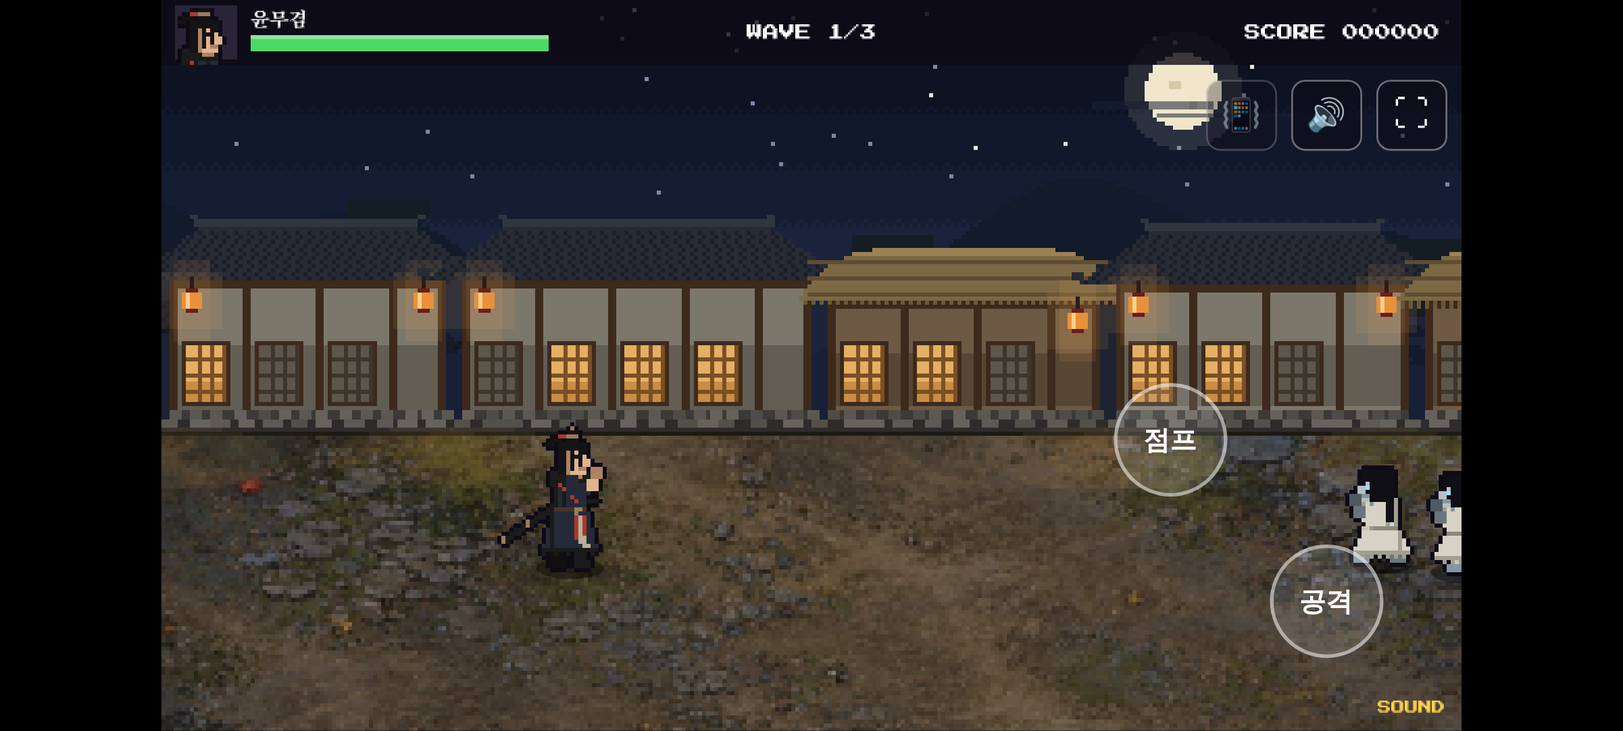
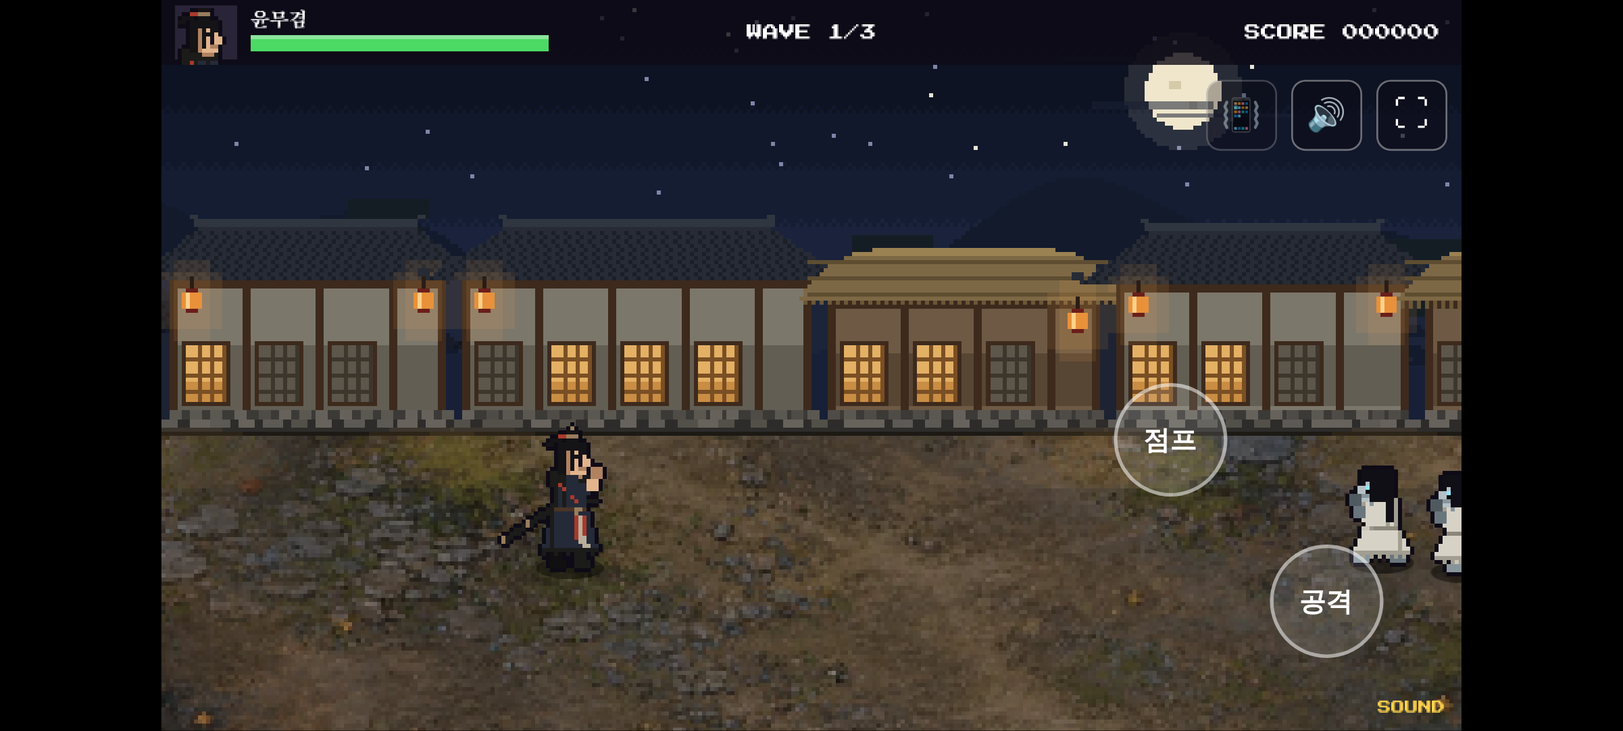
조선 P0: 오너 결정 반영 — 바닥 이음매 제거, 도깨비 위압감(117px·넓은 어깨), 이펙트 높이를 그림 키에, CLAUDE.md 조선 기준 갱신 (director 검수 전)
Claude-Session: https://claude.ai/code/session_0145PX3tFn2de4wdGysM1gpi

diff --git a/beltscroll/art.js b/beltscroll/art.js
@@ -88,9 +88,9 @@ const ART = (() => {
            pants: '#c9c5b9', pantsD: '#99958a', boots: '#87949b', bootsD: '#6a767d', accent: '#8fe6ff',
            belt: '#8c877b', eye: '#0a0a0e', fist: '#6a767d', fistD: '#4f5a60' },
     },
-    dokkaebi: {  // 도깨비 (brute 복제): 붉은 몸, 뿔, 헝클어진 머리, 새끼줄 띠와 방울
+    dokkaebi: {  // 도깨비 (brute 복제): 붉은 몸, 큰 뿔, 헝클어진 머리, 새끼줄 띠와 방울. 윤무겸보다 위압적으로 — 어깨·몸통·팔을 넓고 두껍게 (오너 결정)
       name: '도깨비', style: 'dokkaebi',
-      head: [8, 7], torso: [13, 11], legLen: 10, legW: 4, armW: 4, upper: 5, fore: 5,
+      head: [9, 8], torso: [16, 13], legLen: 11, legW: 5, armW: 5, upper: 6, fore: 6,
       c: { skin: '#b5463b', skinD: '#842e27', shine: '#d66a5c', hair: '#1a1414', top: '#8c7a52', topD: '#6a5a3a',
            pants: '#3b3226', pantsD: '#2a231b', boots: '#c9b994', bootsD: '#9c8e6c', accent: '#d8b04a',
            belt: '#a08a5a', eye: '#f2d14a', fist: '#b5463b', fistD: '#842e27', horn: '#e6dcc2' },
@@ -212,10 +212,11 @@ const ART = (() => {
         R(tx - 13, hipY + bob + 6, 1, 2, k.gold); R(tx - 7, hipY + bob + 2, 1, 2, k.gold);
         if (!armed) { R(tx + tw - 1, hipY + bob - 3, 4, 1, k.sheath); R(tx + tw - 1, hipY + bob - 4, 1, 3, k.gold); }
       }
-      if (def.style === 'dokkaebi') {   // 맨몸 + 어깨에 걸친 새끼줄 천
+      if (def.style === 'dokkaebi') {   // 맨몸 + 솟은 어깨 근육 + 어깨에 걸친 새끼줄 천
         R(tx, tTop, tw, th, k.skin);
-        R(tx, tTop, 1, th, k.skinD);
-        R(tx + 3, tTop + 2, 2, 2, k.shine);
+        R(tx - 1, tTop + 1, tw + 2, 4, k.skin); R(tx + 1, tTop - 1, tw - 2, 1, k.skin);   // 어깨를 넓고 둥글게
+        R(tx, tTop, 1, th, k.skinD); R(tx - 1, tTop + 1, 1, 4, k.skinD);
+        R(tx + 3, tTop + 2, 3, 2, k.shine); R(tx + tw - 5, tTop + 5, 3, 1, k.skinD); R(tx + tw - 6, tTop + 8, 4, 1, k.skinD);   // 가슴·배 근육 그림자
         for (let i = 0; i < th - 1; i++) R(tx + 2 + Math.round(i * (tw - 5) / th), tTop + i, 3, 1, i % 3 ? k.top : k.topD);
       } else if (def.style === 'brute') {   // 민소매: 어깨가 드러남
         R(tx, tTop, tw, th, k.skin);
@@ -278,9 +279,9 @@ const ART = (() => {
         R(hx + 3, hy + 1, 2, hh - 1, k.hair);
         R(hx + hw - 1, hy + 1, 1, 2, k.hair);
         if (!hurt) R(hx + hw - 2, hy + 3, 1, 1, k.accent);
-      } else if (def.style === 'dokkaebi') {  // 뿔 2개 + 헝클어진 머리 + 수염 + 송곳니
-        R(hx + 1, hy - 3, 1, 3, k.horn); R(hx + 2, hy - 4, 1, 1, k.horn);
-        R(hx + hw - 3, hy - 3, 1, 3, k.horn); R(hx + hw - 2, hy - 4, 1, 1, k.horn);
+      } else if (def.style === 'dokkaebi') {  // 굵게 휜 큰 뿔 2개 + 헝클어진 머리 + 수염 + 송곳니
+        R(hx, hy - 3, 2, 3, k.horn); R(hx - 1, hy - 5, 2, 2, k.horn); R(hx - 1, hy - 6, 1, 1, k.horn);
+        R(hx + hw - 3, hy - 3, 2, 3, k.horn); R(hx + hw - 2, hy - 5, 2, 2, k.horn); R(hx + hw - 1, hy - 6, 1, 1, k.horn);
         R(hx - 1, hy - 1, hw + 1, 2, k.hair); R(hx - 1, hy, 3, 6, k.hair);
         R(hx + hw - 4, hy + hh - 3, 5, 3, k.hair);
         if (!hurt) R(hx + hw - 2, hy + 3, 1, 1, k.eye);
@@ -365,7 +366,10 @@ const ART = (() => {
     const { hw, hh, hx, hy } = geometry(def);
     const [face, fg] = canvas(hw + 8, hh + 7);
     fg.drawImage(bust, hx - 4, hy - 4, hw + 8, hh + 7, 0, 0, hw + 8, hh + 7);
-    return { frames, flash, face, sheet: {} };
+    // 그림 키(칸, 외곽선 포함): 서 있는 그림에서 맨 위 불투명 줄 ~ 발바닥. 맞을 때 불꽃·체력바 높이에 쓴다 (판정과 무관)
+    const d = frames.idle0.getContext('2d').getImageData(0, 0, FW, FH).data;
+    let top = 0; while (top < FH && ![...Array(FW).keys()].some(x => d[(top * FW + x) * 4 + 3])) top++;
+    return { frames, flash, face, sheet: {}, height: FOOT + 1 - top };
   }
 
   // ----- 타격 이펙트 (3장) -----
@@ -717,16 +721,12 @@ const ART = (() => {
     jGlow(g, R, lamps);
     return c;
   }
-  // 그림 질감(assets/joseon/floor_dirt.png, 원본 assets/reference/06 에서 잘라 1/3 로 줄인 것)으로 바닥을 깐다. 좌우를 번갈아 뒤집어 잇는다 (이음매가 좌우 대칭 무늬로 보임 — 오너 판단 대기, docs/joseon-p0.md)
+  // 그림 질감(assets/joseon/floor_dirt.png)으로 바닥을 깐다. 질감은 원본 assets/reference/06 의 흙길 띠 3개(높이 330·560·760px)를
+  // 150px 씩 겹쳐 서서히 섞고 끝을 처음과 이어 붙인 고리라, 뒤집지 않고 그대로 반복해도 이음매가 없다 (가로 801칸)
   function texturedFloor(img, wu, hu, lamps) {
     const [c, g] = canvas(wu, hu); const R = painter(g);
     R(0, 0, wu, hu, '#3f3428');
-    for (let x = 0, k = 0; x < wu; x += img.width, k++) {
-      g.save();
-      if (k % 2) { g.translate(x + img.width, 0); g.scale(-1, 1); g.drawImage(img, 0, 0, img.width, hu); }
-      else g.drawImage(img, x, 0, img.width, hu);
-      g.restore();
-    }
+    for (let x = 0; x < wu; x += img.width) g.drawImage(img, x, 0, img.width, hu);
     jFloorEdge(R, wu);
     jGlow(g, R, lamps);
     return c;
@@ -777,6 +777,7 @@ const ART = (() => {
       set.sheet[name] = { img: c, flash: silhouette(c, '#ffffff') };
     }
     set.spec = spec;
+    if (spec.height) set.sheetHeight = spec.height;
     if (spec.face && set.sheet.idle0) {
       const [x, y, w, h] = spec.face, [c, g] = canvas(w, h);
       g.drawImage(set.sheet.idle0.img, x, y, w, h, 0, 0, w, h);
@@ -789,10 +790,14 @@ const ART = (() => {
     if (sh) return { img: flash ? sh.flash : sh.img, scale: set.spec.scale, ax: set.spec.footX, ay: set.spec.footY };
     return { img: (flash ? set.flash : set.frames)[name], scale: S, ax: CX, ay: FOOT };
   }
+  function heightOf(id) {   // 화면 키 px (시트에 height 가 있으면 그 값)
+    const set = characters[id];
+    return set.sheetHeight || set.height * S;
+  }
   function faceOf(id) {   // HUD 얼굴: 시트 얼굴은 높이 42px 로 맞춘다
     const set = characters[id];
     return set.sheetFace ? { img: set.sheetFace, scale: 42 / set.sheetFace.height } : { img: set.face, scale: S };
   }
 
-  return { S, CX, FOOT, CHARACTERS, POSES, characters, sparks: buildSparks(), buildStage, texturedFloor, useSpriteSheet, frameOf, faceOf, BARE, text };
+  return { S, CX, FOOT, CHARACTERS, POSES, characters, sparks: buildSparks(), buildStage, texturedFloor, useSpriteSheet, frameOf, faceOf, heightOf, BARE, text };
 })();

diff --git a/beltscroll/index.html b/beltscroll/index.html
@@ -109,6 +109,8 @@ for (const [id, spec] of Object.entries(BB_DATA.sprites || {})) {
   img.src = spec.src;
 }
 const FONT = '"Press Start 2P", monospace';
+// 맞을 때 불꽃·파티클·적 체력바 높이 (시각 전용, 판정과 무관). 조선 그림은 그림 키에 맞추고, 원래 그림은 예전처럼 h
+const fxH = f => THEME === 'joseon' ? ART.heightOf(f === player ? PLAYER_ART : f.art) : f.h;
 const KFONT = '"Song Myung", "Apple SD Gothic Neo", "Noto Sans KR", serif';   // 한글 제목·이름
 document.fonts && document.fonts.load('16px "Press Start 2P"').catch(() => {});
 
@@ -460,8 +462,8 @@ function damageEnemy(e, dmg, knockdown, dir, attacker) {
   e.hp -= dmg;
   e.flash = feel.flash * (lethal ? KILL_FLASH_MULT : 1);
   e.attack = 0;
-  burst(e.x, e.y - e.h / 2 - e.z, '#ffd36b');
-  sparks.push({ x: e.x - dir * 10, y: e.y, h: e.z + e.h * 0.65, t: 0 });
+  burst(e.x, e.y - fxH(e) / 2 - e.z, '#ffd36b');
+  sparks.push({ x: e.x - dir * 10, y: e.y, h: e.z + fxH(e) * 0.65, t: 0 });
   impact(feel, e, attacker, dir);
   if (otg) {
     // 다운 시간을 늘리지 않는다. 체력이 0이 되면 다운이 끝날 때 사라진다
@@ -486,8 +488,8 @@ function damagePlayer(dmg, dir, knockdown, attacker) {
   player.jumpKick = null; player.landLag = 0; player.jumped = false; player.afterGrab = null;
   if (player.grab) releaseGrab(player);   // 맞으면 잡은 적을 놓친다
   player.grabPush = 0; player.grabTarget = null;
-  burst(player.x, player.y - player.h / 2 - player.z, '#ff6b6b');
-  sparks.push({ x: player.x - dir * 10, y: player.y, h: player.z + player.h * 0.65, t: 0 });
+  burst(player.x, player.y - fxH(player) / 2 - player.z, '#ff6b6b');
+  sparks.push({ x: player.x - dir * 10, y: player.y, h: player.z + fxH(player) * 0.65, t: 0 });
   const feel = feelFor('normal');
   player.flash = feel.flash;
   impact(feel, player, attacker, dir);
@@ -935,7 +937,7 @@ function drawFighter(f, isPlayer) {
   ctx.restore();
 
   // 적 체력바
-  const top = baseY - f.h - f.z;
+  const top = baseY - fxH(f) - f.z;
   if (!isPlayer && f.hp < f.maxHp && f.hp > 0) {
     ctx.fillStyle = '#0e0b16'; ctx.fillRect(sx - 21, top - 16, 42, 7);
     ctx.fillStyle = '#ff5c5c'; ctx.fillRect(sx - 20, top - 15, 40 * f.hp / f.maxHp, 5);

diff --git a/beltscroll/docs/joseon-p0.md b/beltscroll/docs/joseon-p0.md
@@ -12,6 +12,8 @@
 ## 2. 에셋 검수와 분류
 7장 모두 투명 배경이 없는 RGB 시트(1536×1024, 06만 1254×1254)다. 한 그림에 여러 컷이 붙어 있고, 동작별 프레임이 없다.
 **오너 지시: 7장은 공식 아트 스타일 기준.** 원본을 `assets/reference/` 에 그대로 보존 (게임은 직접 읽지 않음).
+- 판본 2가지 (상세 `assets/reference/README.md`): 처음 받은 **경량 WebP 7장**(손실 압축, 투명도 없음)과 오너가 나중에 올린 **PNG 원본 7장**(`assets/reference/png-originals/`, 무손실, 복구 안내문 포함). 해상도는 같다(1536×1024, 06 만 1254×1254) — "고해상도"가 아니라 무손실·투명도 보존 원본이다.
+- PNG 원본 중 **07 아틀라스만 진짜 투명 배경**(픽셀 46% 완전 투명): 인물 5종·도깨비·백호·멧돼지·용·초가가 오려져 있다. 단 한 장씩의 정지 컷이라 동작 프레임은 아니다 (이번 P0 에서는 쓰지 않음).
 
 | 파일 | 내용 | 분류 | 이번에 쓴 곳 |
 |---|---|---|---|
@@ -34,8 +36,10 @@
 | 윤무겸 무기 (벽사검) | 평소엔 허리 뒤로 비스듬히 늘어진 칼집에 꽂혀 있고, 공격 준비·1타·2타·3타·내려찍기 그림에서만 뽑아 든다. 1타 내려베기(가슴 앞에서 앞 아래로), 2타 올려베기(앞 위로), 준비는 어깨 뒤로 길게 젖힘, 3타·내려찍기는 뒤로 길게 늘어뜨림. 칼날 대각 길이 54px(키의 약 절반). 잡기·무릎·던지기는 맨손 그림(칼이 붙든 적을 찌르는 것처럼 보이지 않게) |
 | 윤무겸 색 | 03 "주요 색상" 견본을 직접 뽑음: 먹색 #1b1b1a, 남청 #292c30(화면에서 조금 푸르게 #252a38), 회갈 #706255, 주홍 #913324(화면용으로 조금 밝게 #a83a2b), 금속 #987c5c, 누런 백색 #e7dbc7 |
 | 적 thug → 원귀 | `wongwi`: 잡졸 몸·포즈 그대로, 흰 소복 자락(해진 끝단), 얼굴 가린 긴 머리, 푸른 눈빛, 어두운 손(옷과 구분, director 지적) |
-| 적 brute → 도깨비 | `dokkaebi`: 덩치 몸·포즈 그대로, 붉은 몸·뿔·헝클어진 머리·송곳니·새끼줄 천·방울 (07 참고) |
+| 적 brute → 도깨비 | `dokkaebi`: 붉은 몸·굵게 휜 큰 뿔·헝클어진 머리·송곳니·새끼줄 천·방울 (07 참고). 오너 결정으로 윤무겸보다 위압적이게: 머리 9×8·몸통 16×13(넓게 솟은 어깨, 가슴·배 근육 그림자)·다리 11·팔 두께 5·팔 길이 6+6. 화면 키 117px(윤무겸 111px), 폭도 크게 넓음. 40칸 프레임 위 끝까지 써서 **키는 더 못 키움**(더 키우려면 프레임 확장 = 구조 변경). 판정(w 46·h 84, 공격 사거리 52)은 그대로. 펀치 주먹 끝이 몸 중심 앞 약 51px 로 실제 공격 사거리 52px 와 거의 같아짐(예전 42px) |
 | 배경 → 조선 마을 밤 | 먹빛 밤하늘과 먹구름 걸린 달, 산 능선·소나무·먼 탑, 뒷마을 기와지붕, 기와집·초가집(창호문 불빛)·돌담·대나무·장독·처마 등불, 바닥 흙길(06 질감) + 디딤돌 줄 + 등불 빛 |
+| 바닥 이음매 (오너 결정) | 06 의 흙길 띠 3개(높이 330·560·760px)를 150px 씩 겹쳐 서서히 섞고 끝을 처음과 이어 붙인 고리(가로 2403px → 801칸)로 다시 만듦. 뒤집기 없이 그대로 반복 → 좌우 대칭 무늬 없음 |
+| 맞을 때 불꽃·파티클·적 체력바 높이 | 판정 높이 `h`(주인공 76) 대신 그림 키(윤무겸 111·원귀 78·도깨비 117px)에 맞춤. 불꽃은 키의 0.65(가슴), 파티클은 0.5, 체력바는 머리 위. 원래 그림(THEME street)은 예전처럼 h. 판정·난수 사용 횟수 그대로 |
 | 글자 | 타이틀 "조선 퇴마전"(Song Myung 글꼴), HUD 이름 "윤무겸", 브라우저 탭 제목 |
 | **정식 스프라이트 교체 구조** | `data/sprites.js` 에 시트 한 줄을 적으면 그 캐릭터의 그 동작만 시트 그림으로 바뀐다(규격 `docs/sprite-spec.md`). 시트에 없는 동작·파일 없음은 코드 그림. 시트 칸 크기·발 기준점·배율을 따로 가져 코드 그림(40칸·3배)과 섞여도 발 위치가 맞는다. HUD 얼굴도 시트에서 잘라 쓸 수 있다 |
 | 폴백 | 바닥 그림을 못 불러오면 코드로 그린 흙길. 스프라이트 시트를 못 불러오면 코드 그림 |
@@ -50,6 +54,7 @@
 | 새 상태 | 설정·초기화 | 겹침 |
 |---|---|---|
 | `THEME`·`PLAYER_ART` (상수) | 페이지 열 때 1번 | 판 갱신·난수와 무관. 그림 선택만 |
+| 그림 키 `height`·`fxH` | 그림 만들 때 1번 잼(서 있는 그림의 맨 위 불투명 줄~발바닥). 시트는 sprites.js 의 height | 불꽃·파티클 위치와 체력바에만. 판정·이동·난수 호출 횟수와 무관 (determ 기록 같음). 점프 중(z)은 예전처럼 더함 |
 | 바닥 질감 교체 (`BG.floor`) | 그림을 다 불러온 순간 1번 바꿔 끼움. 실패하면 안 바꿈 | 게임 중 언제 와도 다음 프레임부터 새 바닥, 크기 같음. 재시작·게임오버·전체화면·가로세로·터치와 무관. 판 난수 안 씀 |
 | 스프라이트 시트 (`characters[id].sheet`) | 시트를 다 불러온 순간 1번 칸을 잘라 둠. 실패하면 빈 채로 | 그리기에서만 읽음. 판정·frameName 과 무관(측정: 시트 있음·없음·파일 없음 세 경우 판 기록 같음). 맞음 번쩍임·무적 깜빡임·좌우 뒤집기는 같은 경로라 시트 그림에도 적용 |
 | 잡기 중 맨손 그림 | 그리기 직전 이름만 바꿈 (hold·knee·throwPrep·throw) | 잡기(grab)·잡기 뒤(afterGrab) 상태에서만. frameName 결과·측정 출력은 그대로 |
@@ -63,14 +68,17 @@
 - 전후 사진: `docs/joseon-p0/before-*.png`, `after-*.png` (PC 타이틀·웨이브1·웨이브3, 휴대폰 가로 웨이브1).
 - director 2차(http 로 띄워 픽셀 실측): 잡기·무릎·던지기 5장면 칼 픽셀 0, 준비·1·2타에서 칼 보임. 가짜 시트+코드 칸 섞어도 발 높이 같음, 좌우 뒤집기·번쩍임·무적 깜빡임 적용. 술·가슴끈 칸 보임.
 - 그림 크기 실측(불투명 칸, 외곽선 포함): 윤무겸 111px, 원래 주인공·잡졸·덩치 87px, 원귀 78px, 도깨비 99px. 칼끝 몸 중심 앞 39px, 칼날 가로 10칸·세로 15칸(대각 54px).
+- 3차(오너 4가지 결정 반영 뒤): 같은 31개 + sprites 다시 실행 → 28개 기준선과 같음, touch·test·typo 는 위와 같은 이유로 다름, sprites 정상. 그림 키 실측: 윤무겸 111·원귀 78·도깨비 117px. 도깨비를 칠 때 불꽃 높이 76px(키의 0.65, 가슴).
+- 전후 비교 사진: `docs/joseon-p0/compare-pc.png`, `compare-mobile.png` (타이틀·웨이브1·웨이브3, 왼쪽 작업 전·오른쪽 작업 후).
 - 사람 손으로 하는 확인(키보드·터치 실제 조작감)은 하지 않음 → 오너 확인 필요.
 
 ## 6. 남은 문제
 - 지금 윤무겸은 설정화를 기준으로 한 **임시 전투 스프라이트**(약 32칸 키 픽셀 그림)다. 설정화의 얼굴 표정·옷 무늬 수준은 정식 스프라이트가 필요하다. 필요 칸: `docs/sprite-spec.md` 의 14개(+ 잡기용 4개는 없으면 punch·stomp·windup·punch2 칸을 씀).
-- **칼 길이 (오너 판단):** (가) 지금처럼 대각선 54px, 사거리 그대로 — 추천 (나) 설정화처럼 더 긴 칼(키의 70%) + 사거리 48→64 같은 전투 조정(제자리 연타·적 멈춤 거리까지 다시 맞추는 큰 작업) (다) 처음의 짧은 수평 찌르기.
-- 키: 주인공(111px)이 도깨비(99px)보다 크다. 설정화 비율을 따른 결과인데, 덩치 적이 더 커 보여야 하면 도깨비 그림을 키울 수 있다(판정은 그대로).
-- 판정 크기 `h`(주인공 76)는 판정에 안 쓰이고 연출에만 쓰인다(맞을 때 불꽃·파티클 높이, 적 체력바). 그래서 윤무겸이 맞을 때 불꽃이 허리 높이(발 위 49px)에 뜬다. 정식 스프라이트 키가 정해지면 맞출 것.
-- **바닥 이음매 (오너 판단 대기):** 06 질감을 좌우로 번갈아 뒤집어 이어서, 이음매 3곳(951px 마다)에 좌우 대칭 바위 무늬가 보인다. (가) 추천: 06 에서 다른 높이의 띠를 하나 더 잘라 두 장을 번갈아(뒤집기 없음) (나) 그대로.
+- 칼 길이: 오너 결정(2026-10-27) 대각선 54px 유지, 공격 범위·타격감 그대로.
+- 도깨비 키: 40칸 프레임 한계(117px)까지 키움. 더 위압적으로 하려면 프레임 확장(구조 변경, 오너 확인 필요) 또는 정식 스프라이트.
+- 판정 크기 `h` 는 그대로다. 그래서 H 키(판정 표시)로 보는 몸 상자와 그림 키는 다르다(판정은 x·깊이·높이 z 로만 하므로 플레이 영향 없음).
+- 바닥: 이음매는 없앴지만 섞은 구간(150px)은 두 그림이 반투명으로 겹쳐 살짝 흐리다. 고리 길이 801칸이라 스테이지(1204칸)에서 한 번 반복된다.
+- **GitHub 의 Vercel 실패 표시 (게임 코드와 무관):** PR #30 의 Vercel 상태 3개(joseon-exorcist·dropbid·backpackr)가 모두 "Deployment rate limited — retry in 24 hours" 로 실패. 이 PR 과 상관없는 dropbid 프로젝트도 같은 문구라 **빌드 횟수 한도** 때문이다. 이 게임은 빌드가 필요 없는 정적 파일이고, GitHub Actions 검사는 0개. 한도가 풀리면 다시 배포하면 된다.
 - 원귀·도깨비 선택: 설정화의 귀화는 사람 모양이 아니라 지금 포즈를 못 써서 원귀·도깨비를 골랐다.
 - 바닥 질감은 위에서 본 그림이라 원근이 조금 다르다(디딤돌 줄이 경계를 가려 사진상 크지 않음). 고해상도 원본 PNG 는 받지 못했다.
 - 타이틀 글꼴은 구글 글꼴에서 받는다(오프라인이면 기본 글꼴, 기존 Press Start 2P 와 같은 의존).

diff --git a/beltscroll/CLAUDE.md b/beltscroll/CLAUDE.md
@@ -1,10 +1,14 @@
-# Belt Brawl — 작업 규칙
+# 조선 퇴마전 (작업명 Belt Brawl) — 작업 규칙
 
 이 파일은 매 작업 시작 시 반드시 읽고 따른다. `docs/progress.md`가 있으면 함께 읽고, 거기 적힌 현재 단계부터 이어간다.
 
 ## 1. 프로젝트 한 줄 정의
-브라우저에서 도는 2D 벨트스크롤 액션 게임 "Belt Brawl". 1인 개발(오너는 비개발자), 클로드코드가 구현을 맡는다.
-이미 플레이 가능한 버전이 있다 (웨이브 3개, 적 2종 thug·brute, 3연타, 점프, HUD, 터치 조작, art.js 픽셀 아트).
+브라우저에서 도는 2D 벨트스크롤 액션 게임 "조선 퇴마전" (작업명 Belt Brawl). 1인 개발(오너는 비개발자), 클로드코드가 구현을 맡는다.
+조선 마을의 밤, 벽사청 검객 윤무겸이 귀물(원귀·도깨비)과 싸운다. 웨이브 3개, 3연타(벽사검), 점프, 잡아 던지기, HUD, 터치 조작 (2026-10-27 오너 지시로 세계관 전환, 상세 `docs/joseon-p0.md`).
+- 공식 아트 기준: `assets/reference/` 설정화 (경량 WebP 7장 + `png-originals/` PNG 원본, 구분은 그 폴더 README).
+- 게임 속 캐릭터는 `art.js` 가 코드로 그린 **임시 전투 스프라이트**다. 정식 스프라이트는 `data/sprites.js` + `docs/sprite-spec.md` 구조로 교체하며, 교체해도 판정·타격감은 그대로다.
+- 데이터 이름은 예전 그대로다: 적 `thug`(그림 `wongwi` 원귀)·`brute`(그림 `dokkaebi` 도깨비), 주인공 그림 `mugyeom`.
+- 원래의 현대 밤거리 격투 그림(주인공·잡졸·덩치)은 코드에 남아 있고 `index.html` 의 `THEME = 'street'` 로 볼 수 있다. 조선 전환 전 버전은 브랜치 `ccr-05037f70-jcsww6`.
 지금 목표는 기능 추가가 아니라 "손맛"을 끌어올리는 것이다.
 
 핵심 가설: 손맛 = 입력 응답(선입력·즉시 발동) × 타이밍(준비·판정·경직 프레임) × 피드백(히트스톱·흔들림·넉백·플래시·소리).
@@ -16,9 +20,12 @@
 - 새로 짜는 코드는 숫자를 여기저기 흩어 쓰지 않는다. 한 번에 전부 갈아엎지 않는다.
 
 ## 3. 바리에이션 규칙 (스타일 일관성)
-- 새 적·새 이펙트는 0부터 만들지 않는다. 기존 것(thug, brute, 기존 이펙트)을 복제해서 시작한다.
+- 새 적·새 이펙트는 0부터 만들지 않는다. 기존 것(원귀 wongwi·도깨비 dokkaebi, 원래 thug·brute, 기존 이펙트)을 복제해서 시작한다.
+- 모양·색·비율은 `assets/reference/` 설정화를 기준으로 맞춘다 (윤무겸은 03 설정화, 색은 03 의 주요 색상 견본).
 - 복제본에서 바꿔도 되는 값: 팔레트, 크기 비율, 속도, 개수, 틴트, 수명, 데미지·체력, 타격감 수치.
-- 바꾸면 안 되는 것: art.js의 그림 구조, 픽셀 크기(ART.S), 이펙트의 구성 방식. 바꿔야 하면 이유와 함께 먼저 보고하고 오너 확인을 받는다.
+- 바꾸면 안 되는 것: art.js의 그림 구조, 픽셀 크기(ART.S), 이펙트의 구성 방식. 바꿔야 하면 이유와 함께 먼저 보고하고 오너 확인을 받는다. (2026-10-27 조선 전환 때 추가한 것: 도포·소복 자락 단계, 칼 든 자세, 잡기용 맨손 별칭 포즈, 정식 스프라이트 교체 함수. 원래 3종 그림은 픽셀 단위로 그대로)
+- 그림은 판정에 맞춘다: 무기·주먹 끝의 가로 위치는 판정 끝에 선 적의 몸 앞면 (1·2타는 몸 중심 앞 약 39px). 칼은 대각선으로 길게 그려도 가로 끝은 이 자리. 그림에 맞춰 판정 숫자를 바꾸지 않는다.
+- 캐릭터 그림은 40칸 프레임(화면 120px) 안에 들어가야 한다. 더 크게 하려면 프레임을 키우는 구조 변경이라 먼저 보고한다.
 - art.js에 이미 있는 포즈(예: windup)를 먼저 찾아 쓰고, 새 포즈는 꼭 필요할 때만 만든다.
 
 ## 4. 손맛 설계 규칙과 검수
@@ -31,16 +38,18 @@
 - 디버그 키는 계속 유지한다: `F` 타격감 normal↔heavy 강제 전환, `G` 0.25배속, `H` 판정 범위 표시, `M` 타격음 켜기/끄기. 기존 조작 키(방향키·WASD·Z·J·X·K·Enter)와 겹치지 않는다.
 
 ## 5. 범위
-현재 있는 것(적 2종, 웨이브 3개, 점프)은 유지한다. 오너가 결정해 새로 허용한 것:
+현재 있는 것(적 2종 원귀·도깨비, 웨이브 3개, 점프)은 유지한다. 오너가 결정해 새로 허용한 것:
 - 점프 공격 1종 (피니시 타격감 공유)
 - 쓰러진 적 추가타 1회
 - 잡아 던지기 1종 (2026-10-27 오너 결정: 적에게 붙어 앞으로 밀면 잡기, 잡은 상태 Z 무릎치기, 점프 버튼 던지기)
 - 코드로 합성한 타격음 1종 (에셋 파일 없이 WebAudio로 생성, `M` 키로 토글) — "소리 없이도 손맛이 나는가"를 비교 판정하기 위한 장치. 5단계 판정(소리가 있으면 손맛이 더 남) 뒤 기본 켜짐으로 변경 (2026-10-27 오너 결정)
 - 코드로 합성한 효과음 몇 종: 휘두름·잡기·던진 적 착지·적 쓰러짐 (2026-10-27 오너 결정)
 - 타격 진동 1종 (2026-10-27 오너 요청: 휴대폰 진동, 기본 꺼짐, 별도 버튼. 안드로이드만)
+- 조선 퇴마전 세계관 시각 전환 P0 (2026-10-27 오너 지시): 그림·배경·글자만 바꾼다. 전투 로직·타격감·콤보·잡기·적 AI 는 그대로
 
 아래는 오너가 풀기 전까지 만들지 않는다.
 - 적 종류·웨이브 추가
+- 신규 직업(파귀무인·벽력포수·봉령술사 등)·새 스킬·2차 전직, 칼 공격에 맞춘 사거리·판정 변경 (2026-10-27 P0 범위 밖)
 - 사운드 파일(에셋)·배경음악 (위 코드 합성 소리 제외)
 - 스토리·대사·컷신
 - 레벨업·장비·인벤토리 같은 RPG 성장 시스템

diff --git a/beltscroll/docs/sprite-spec.md b/beltscroll/docs/sprite-spec.md
@@ -10,7 +10,7 @@
 - 캐릭터는 **오른쪽을 보는 방향**으로만 그린다 (왼쪽은 게임이 뒤집는다).
 - 모든 칸에서 **발바닥 중심점이 같은 자리**에 와야 한다 (`footX`, `footY`). 점프 칸도 발 기준점은 같은 자리이고, 높이는 게임이 올린다.
 - 칸 배치는 자유 (가로 한 줄, 여러 줄 모두 가능). 어느 칸이 어느 동작인지는 `data/sprites.js` 에 [열, 행] 으로 적는다.
-- 크기: 지금 임시 윤무겸의 화면 키는 111px (상투 포함, 실측). 원귀 78px, 도깨비 99px. `scale`(시트 1px 를 화면 몇 px 로)로 맞춘다. 예: 128px 칸에 키 111px 로 그렸으면 `scale: 1`.
+- 크기: 지금 임시 윤무겸의 화면 키는 111px (상투 포함, 실측). 원귀 78px, 도깨비 117px (윤무겸보다 위압적으로, 오너 결정). `scale`(시트 1px 를 화면 몇 px 로)로 맞춘다. 예: 128px 칸에 키 111px 로 그렸으면 `scale: 1`.
 
 ## 동작(칸) 이름 — 14개
 | 이름 | 쓰이는 때 | 주의 |
@@ -47,6 +47,7 @@ BB_DATA.sprites = {
     "footX": 64, "footY": 124,
     "scale": 1,
     "face": [44, 8, 40, 40],
+    "height": 111,
     "frames": { "idle0": [0, 0], "idle1": [1, 0], "walk0": [2, 0], "walk1": [3, 0], "walk2": [4, 0], "walk3": [5, 0],
                 "windup": [0, 1], "punch": [1, 1], "punch2": [2, 1], "kick": [3, 1], "jump": [4, 1], "stomp": [5, 1],
                 "hurt": [0, 2], "down": [1, 2] }
@@ -54,6 +55,7 @@ BB_DATA.sprites = {
 };
 ```
 - 이름(`mugyeom`)은 art.js 의 캐릭터 이름 (주인공 `mugyeom`, 적은 `data/enemies.js` 의 art: `wongwi`·`dokkaebi`).
+- `height`: 화면 키 px (맞을 때 불꽃·적 체력바 높이에 씀, 판정과 무관). 없으면 코드 그림 키.
 - `face`: HUD 얼굴 사진으로 쓸 영역 [x, y, 너비, 높이] (idle0 칸 기준). 없으면 코드 그림 얼굴.
 - 그림 파일을 못 불러오면 코드 그림 그대로 (게임은 멈추지 않음).
 - 확인: `node tests/sprites.js` (가짜 시트로 교체·빠진 칸·파일 없음 경우를 잰다).

diff --git a/beltscroll/docs/progress.md b/beltscroll/docs/progress.md
@@ -3,9 +3,8 @@
 작업 순서와 단계별 지시는 `docs/plan.md`(이번 지시는 `docs/instructions-3.md`), 규칙은 `CLAUDE.md`, 실수 기록은 `docs/mistakes.md`.
 
 ## 현재 단계
-(브랜치 `joseon-p0-assets`) 조선 퇴마전 그림 전환 P0 + 오너 추가 지시(설정화 기준·윤무겸 맞춤·정식 스프라이트 교체 구조) 완료. director 1차·2차 조건부 통과, 즉시 수정 반영(2차 추천 대각선 칼 포함). 상세 `docs/joseon-p0.md`. PR 대상 브랜치 `ccr-05037f70-jcsww6`.
-원래 브랜치 `ccr-05037f70-jcsww6` 는 6단계 완료 상태 그대로.
-조선 P0 오너 판단 대기: ① 칼 길이(지금 대각선 54px, 사거리 그대로 / 더 길게+사거리 조정) ② 바닥 이음매(좌우 대칭 무늬) ③ 주인공이 도깨비보다 큼 ④ CLAUDE.md 갱신 제안(정의·복제 기준·범위가 thug·brute 전제, art.js 자락 단계 추가 보고).
+(브랜치 `joseon-p0-assets`, PR #30, 병합하지 않음) 조선 퇴마전 시각 전환 P0: 오너 PR 검토 결정 4가지(칼 유지·바닥 이음매·도깨비 위압감·CLAUDE.md 갱신)와 추가 개선(이펙트 높이·WebP/PNG 구분·PNG 원본 보관) 반영, 회귀 측정·전후 사진 완료, director 검수 중. 상세 `docs/joseon-p0.md`.
+원래 브랜치 `ccr-05037f70-jcsww6` 는 6단계 완료 상태 그대로, 원래 게임 링크도 그대로.
 
 ## 막힌 것 (오너 답 대기)
 1. 판마다 같은 판이 됨 (시드 고정 난수의 결과, 5단계와 달라진 점): 적이 나오는 깊이(위아래 줄)와 공격 간격 순서가 매 판 같다. (가) 추천: 고정 유지 — 같은 입력이면 같은 판이라 측정·재현·그림 비교가 된다 (나) 판마다 다른 시드 + 화면 구석에 시드 번호 표시(재현은 그 번호로).

diff --git a/beltscroll/docs/decisions.md b/beltscroll/docs/decisions.md
@@ -47,3 +47,9 @@
 - 2026-10-27 / 측정 스크립트를 저장소 `beltscroll/tests/` 에 보관 (오너 요청). 그림(PNG) 자동 비교 추가 여부는 아직 대기.
 - 2026-10-27 / 조선 퇴마전 세계관으로 그림 전환(P0): 오너 지시문 + 에셋 zip. 전투 로직 유지, 별도 브랜치 `joseon-p0-assets`. 상세 `docs/joseon-p0.md`.
 - 2026-10-27 / (오너 추가 지시) 설정화 7장은 공식 아트 스타일 기준, 원본을 `assets/reference/` 에 보존. 윤무겸 얼굴·복장·색·무기·비율을 설정화에 맞춤. 코드 픽셀 그림은 임시 전투 스프라이트, 정식 스프라이트로 바꿀 수 있는 구조. 전투·타격감 유지. 작업 후 PR.
+- 2026-10-27 / (PR #30 검토) 칼 길이: 대각선 54px 유지, 공격 범위·타격감 변경 없음.
+- 2026-10-27 / 바닥 이음매 수정: 06 의 다른 흙길 부분을 잘라 자연스럽게 반복, 좌우 대칭 무늬 없앰.
+- 2026-10-27 / 도깨비는 윤무겸보다 강하고 위압적으로: 어깨·몸통·뿔 실루엣 키움, 공격 판정 유지. 프레임으로 어려우면 억지로 키우지 말고 보고.
+- 2026-10-27 / CLAUDE.md 를 조선 퇴마전 기준으로 갱신 (전투 검수 규칙·실수 기록 유지, 현대 격투 설정만 수정).
+- 2026-10-27 / 타격 이펙트 높이를 그림 키에 맞춤 (판정 그대로). 설정화 WebP(경량)와 PNG 원본 구분 표기. 코드 그림은 임시 스프라이트 유지. 기존 게임 배포 링크 덮어쓰기 금지. 신규 직업·스킬 구현 금지. 병합하지 않음.
+- 2026-10-27 / 오너가 올린 `joseon_recovered_art_review.zip`(설정화 PNG 원본 7장 + 복구 안내문)을 GitHub 에 보관 → `assets/reference/png-originals/`.

diff --git a/beltscroll/README.md b/beltscroll/README.md
@@ -13,7 +13,7 @@
 | `data/waves.js` | 웨이브 구성 (어디서 몇 명, 어떤 적) |
 | `data/feel.js` | 타격감 숫자 (멈춤·화면 밀림·밀려남·번쩍임) |
 | `tests/` | 자동 측정 스크립트 (게임 실행엔 필요 없음, 돌리는 법은 `tests/README.md`) |
-| `assets/reference/` | 조선 퇴마전 설정화 원본 7장 + README. **공식 아트 스타일 기준** (게임은 직접 읽지 않음) |
+| `assets/reference/` | 조선 퇴마전 설정화 7장. **공식 아트 스타일 기준** (게임은 직접 읽지 않음). 경량 WebP(바로 아래) + PNG 원본(`png-originals/`), 구분은 그 폴더 README |
 | `assets/joseon/floor_dirt.png` | 바닥 질감 (06 설정화에서 잘라 줄임, 게임이 읽음) |
 | `data/sprites.js` | 정식 캐릭터 스프라이트 시트 목록 (비어 있으면 코드 그림 = 임시 전투 스프라이트). 규격 `docs/sprite-spec.md` |
 
